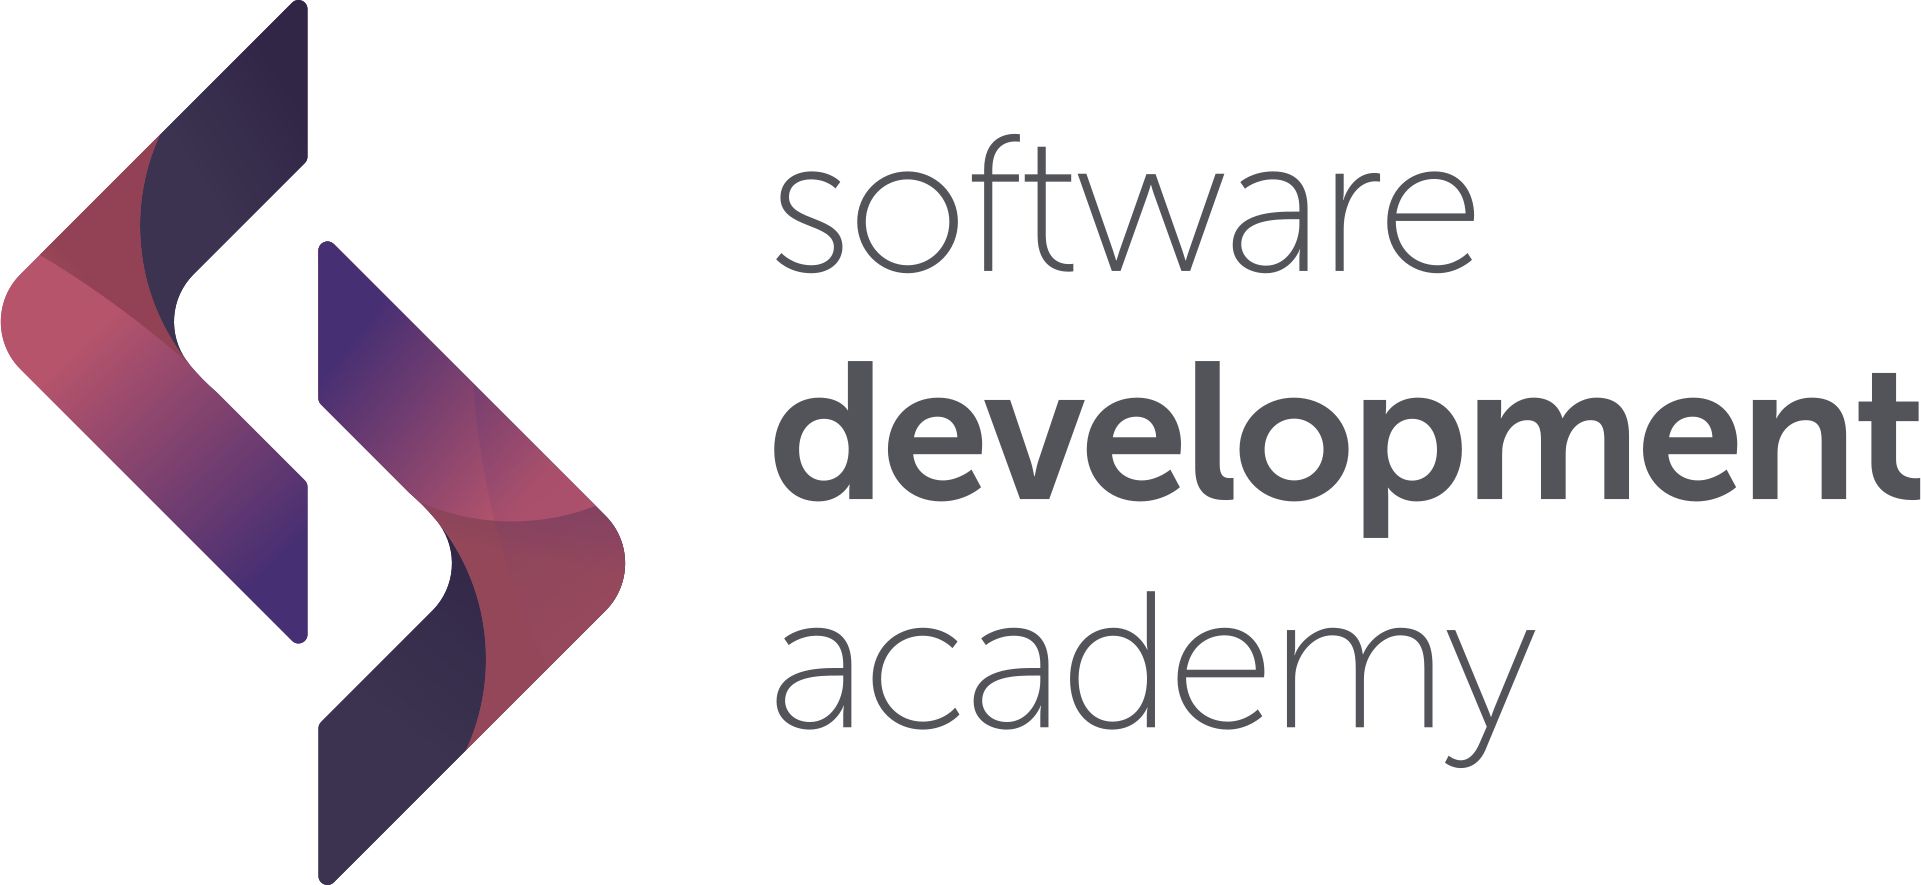
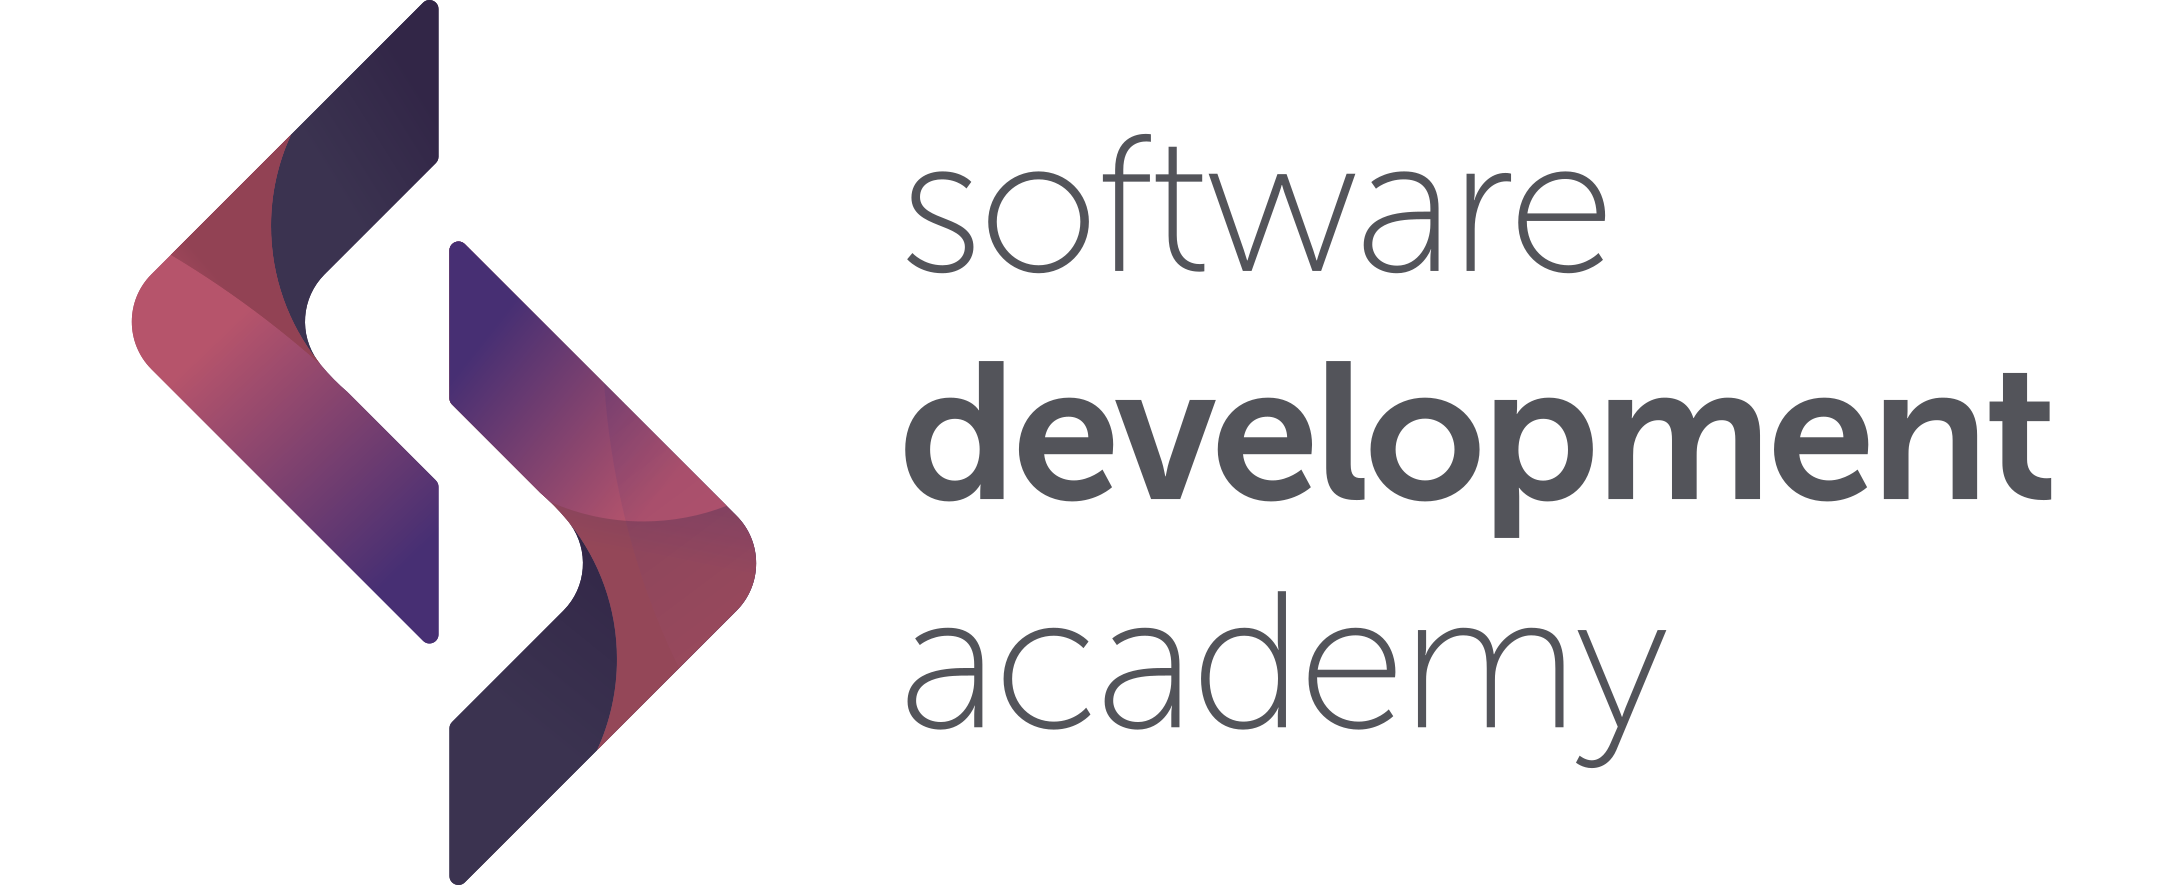
pic size

diff --git a/src/components/home/CertificationCard.jsx b/src/components/home/CertificationCard.jsx
@@ -12,8 +12,8 @@ const CertificationCard = ({ data }) => {
               className="m-0 mb-3" 
               src={data.logo} 
               alt="" 
-              width={200}
-              height={200}
+              width="50%"
+              height="50%"
               />
         <p className="lead">
           {data.title}
